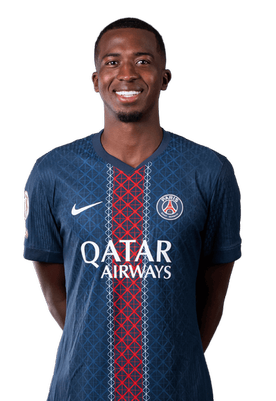
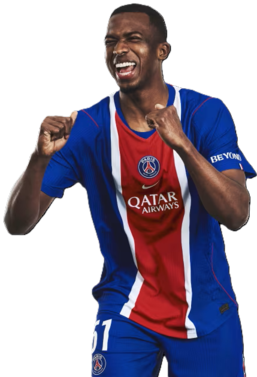
mise a jour saisons

diff --git a/src/datas/Leagues.jsx b/src/datas/Leagues.jsx
@@ -5,7 +5,7 @@ export const championnats = [
         "country": "France",
         "logo": "https://media.api-sports.io/football/leagues/61.png",
         "flag": "https://media.api-sports.io/flags/fr.svg",
-        "season": 2025,
+        "season": 2026,
     },
 
     {
@@ -14,7 +14,7 @@ export const championnats = [
         "country": "England",
         "logo": "https://media.api-sports.io/football/leagues/39.png",
         "flag": "https://media.api-sports.io/flags/gb.svg",
-        "season": 2025,
+        "season": 2026,
     },
 
 
@@ -24,7 +24,7 @@ export const championnats = [
         "country": "Spain",
         "logo": "https://media.api-sports.io/football/leagues/140.png",
         "flag": "https://media.api-sports.io/flags/es.svg",
-        "season": 2025,
+        "season": 2026,
     },
 
     {
@@ -33,7 +33,7 @@ export const championnats = [
         "country": "Germany",
         "logo": "https://media.api-sports.io/football/leagues/78.png",
         "flag": "https://media.api-sports.io/flags/de.svg",
-        "season": 2025
+        "season": 2026
     },
 
     {
@@ -42,7 +42,7 @@ export const championnats = [
         "country": "Italy",
         "logo": "https://media.api-sports.io/football/leagues/135.png",
         "flag": "https://media.api-sports.io/flags/it.svg",
-        "season": 2025,
+        "season": 2026,
     },
 
     
@@ -52,7 +52,7 @@ export const championnats = [
         "country": "Portugal",
         "logo": "https://media.api-sports.io/football/leagues/94.png",
         "flag": "https://media.api-sports.io/flags/pt.svg",
-        "season": 2025,
+        "season": 2026,
     },
 
     {
@@ -61,7 +61,7 @@ export const championnats = [
         "country": "Pays-Bas",
         "logo": "https://media.api-sports.io/football/leagues/88.png",
         "flag": "https://media.api-sports.io/flags/nl.svg",
-        "season": 2025,
+        "season": 2026,
     },
 
     {
@@ -69,7 +69,7 @@ export const championnats = [
         "name": "Jupiler League",
         "country": "Belgique",
         "logo": "https://media.api-sports.io/football/leagues/144.png",
-        "season": 2025,
+        "season": 2026,
     },
 
     {
@@ -78,7 +78,7 @@ export const championnats = [
         "country": "Grece",
         "logo": "https://media.api-sports.io/football/leagues/197.png",
         "flag": "https://media.api-sports.io/flags/gr.svg",
-        "season": 2025,
+        "season": 2026,
     },
 
     {
@@ -87,7 +87,7 @@ export const championnats = [
         "country": "France",
         "logo": "https://media.api-sports.io/football/leagues/62.png",
         "flag": "https://media.api-sports.io/flags/fr.svg",
-        "season": 2025,
+        "season": 2026,
     },
 
     {
@@ -95,7 +95,7 @@ export const championnats = [
         "name": "National 1",
         "country": "France",
         "logo": "https://media.api-sports.io/football/leagues/63.png",
-        "season": 2025,
+        "season": 2026,
     },
 
 
@@ -195,7 +195,7 @@ export const europe = [
         "name": "UEFA Champions League",
         "country": "World",
         "logo": "https://media.api-sports.io/football/leagues/2.png",
-        "season": 2025,
+        "season": 2026,
     },
 
     {
@@ -203,14 +203,14 @@ export const europe = [
         "name": "UEFA Europa League",
         "country": "World",
         "logo": "https://media.api-sports.io/football/leagues/3.png",
-        "season": 2025,
+        "season": 2026,
     },
     {
         "id": 848,
         "name": "UEL Conference",
         "country": "World",
         "logo": "https://media.api-sports.io/football/leagues/848.png",
-        "season": 2025,
+        "season": 2026,
     },
 
 
@@ -224,7 +224,7 @@ export const national2 = [
         "name": "National 2 A",
         "country": "France",
         "logo": "https://media.api-sports.io/football/leagues/67.png",
-        "season": 2025,
+        "season": 2026,
     },
 
     {
@@ -232,7 +232,7 @@ export const national2 = [
         "name": "National 2 B",
         "country": "France",
         "logo": "https://media.api-sports.io/football/leagues/68.png",
-        "season": 2025,
+        "season": 2026,
     },
 
     {
@@ -240,7 +240,7 @@ export const national2 = [
         "name": "National 2 C",
         "country": "France",
         "logo": "https://media.api-sports.io/football/leagues/69.png",
-        "season": 2025,
+        "season": 2026,
     }
 ]
 
@@ -250,7 +250,7 @@ export const national3 = [
         "name": "National 3 A",
         "country": "France",
         "logo": "https://media.api-sports.io/football/leagues/461.png",
-        "season": 2025, 
+        "season": 2026, 
     },
 
     {
@@ -258,7 +258,7 @@ export const national3 = [
         "name": "National 3 B",
         "country": "France",
         "logo": "https://media.api-sports.io/football/leagues/462.png",
-        "season": 2025, 
+        "season": 2026, 
     },
 
     {
@@ -266,7 +266,7 @@ export const national3 = [
         "name": "National 3 C",
         "country": "France",
         "logo": "https://media.api-sports.io/football/leagues/463.png",
-        "season": 2025, 
+        "season": 2026, 
     },
 
     {
@@ -274,7 +274,7 @@ export const national3 = [
         "name": "National 3 D",
         "country": "France",
         "logo": "https://media.api-sports.io/football/leagues/464.png",
-        "season": 2025, 
+        "season": 2026, 
     },
 
     {
@@ -282,7 +282,7 @@ export const national3 = [
         "name": "National 3 E",
         "country": "France",
         "logo": "https://media.api-sports.io/football/leagues/465.png",
-        "season": 2025, 
+        "season": 2026, 
     },
 
     {
@@ -290,7 +290,7 @@ export const national3 = [
         "name": "National 3 F",
         "country": "France",
         "logo": "https://media.api-sports.io/football/leagues/466.png",
-        "season": 2025, 
+        "season": 2026, 
     },
 
     {
@@ -298,7 +298,7 @@ export const national3 = [
         "name": "National 3 G",
         "country": "France",
         "logo": "https://media.api-sports.io/football/leagues/1029.png",
-        "season": 2025, 
+        "season": 2026, 
     },
 
     {
@@ -306,7 +306,7 @@ export const national3 = [
         "name": "National 3 H",
         "country": "France",
         "logo": "https://media.api-sports.io/football/leagues/467.png",
-        "season": 2025, 
+        "season": 2026, 
     },
 
 ]

diff --git a/src/components/Stats.jsx b/src/components/Stats.jsx
@@ -7,6 +7,7 @@ import { portraitsJoueurs } from "../datas/Portraits";
 import { LinearGradient } from "expo-linear-gradient";
 import { useNavigation } from "@react-navigation/native";
 import { useTranslation } from 'react-i18next';
+import cdm2026 from "../assets/cdm2026.png"
 
 
 function Stats({ match, injuries }) {
@@ -29,10 +30,10 @@ function Stats({ match, injuries }) {
     const fetchData = async () => {
       try {
         const urls = [
-          `https://v3.football.api-sports.io/teams/statistics?season=2025&team=${match.teams.home.id}&league=${match.league.id}`,
-          `https://v3.football.api-sports.io/teams/statistics?season=2025&team=${match.teams.away.id}&league=${match.league.id}`,
-          `https://v3.football.api-sports.io/players?league=${match.league.id}&season=2025&team=${match.teams.home.id}`,
-          `https://v3.football.api-sports.io/players?league=${match.league.id}&season=2025&team=${match.teams.away.id}`,
+          `https://v3.football.api-sports.io/teams/statistics?season=2026&team=${match.teams.home.id}&league=${match.league.id}`,
+          `https://v3.football.api-sports.io/teams/statistics?season=2026&team=${match.teams.away.id}&league=${match.league.id}`,
+          `https://v3.football.api-sports.io/players?league=${match.league.id}&season=2026&team=${match.teams.home.id}`,
+          `https://v3.football.api-sports.io/players?league=${match.league.id}&season=2026&team=${match.teams.away.id}`,
         ];
 
         const headers = {
@@ -308,7 +309,7 @@ const topScorerExt =
         </LinearGradient>
 
         <View style={{alignItems: "center", backgroundColor: "white", flexDirection: "row", gap: 25, paddingInline: 5,  paddingBlock: 5}} >
-            <Image source={{uri: match.league.logo}} style={{height: 48, width: 48, resizeMode: "contain"}} />
+            <Image source={match.league.id === 1 ? cdm2026 : {uri: match.league.logo}} style={{height: 48, width: 48, resizeMode: "contain"}} />
             <View>
                         {topScorerHome && (
 
@@ -339,7 +340,7 @@ const topScorerExt =
         </LinearGradient>
 
         <View style={{alignItems: "center", backgroundColor: "white", flexDirection: "row", gap: 25, paddingInline: 5,  paddingBlock: 5}} >
-            <Image source={{uri: match.league.logo}} style={{height: 48, width: 48, resizeMode: "contain"}} />
+            <Image source={match.league.id === 1 ? cdm2026 : {uri: match.league.logo}} style={{height: 48, width: 48, resizeMode: "contain"}} />
             <View>
                         {topAssistHome && (
 
@@ -369,7 +370,7 @@ const topScorerExt =
         <Text style={styles.title}>{t("mieuxNotés")}</Text>
         </LinearGradient>
         <View style={{alignItems: "center", backgroundColor: "white", flexDirection: "row", gap: 15, paddingInline: 5, paddingBlock: 5}} >
-            <Image source={{uri: match.league.logo}} style={{height: 48, width: 48, resizeMode: "contain"}} />
+            <Image source={match.league.id === 1 ? cdm2026 : {uri: match.league.logo}} style={{height: 48, width: 48, resizeMode: "contain"}} />
             <View>
                         {bestRatedHome && (
             <TouchableOpacity onPress={() => navigation.navigate('FicheJoueur', { id: bestRatedHome.id})} style={[styles.ligne, {borderBottomWidth: 2, gap: 5}]}>

diff --git a/src/components/ClassementJeu.jsx b/src/components/ClassementJeu.jsx
@@ -58,7 +58,6 @@ export default function Leaderboard() {
   const top3 = leaders.slice(0, 3);
 
 
-  const currentStage = matches?.[matches.length - 3]?.league?.round;
 
   const now = new Date();
 
@@ -93,7 +92,6 @@ function getPointsSystem(round) {
   }
 }
 
-    console.log(currentRound)
 const currentSystem = getPointsSystem(currentRound);
 
   const bestExactScoreUser =
@@ -106,7 +104,6 @@ const currentSystem = getPointsSystem(currentRound);
     : null;
 
 
-console.log(bestExactScoreUser)
 
   return (
     <View style={styles.container}>